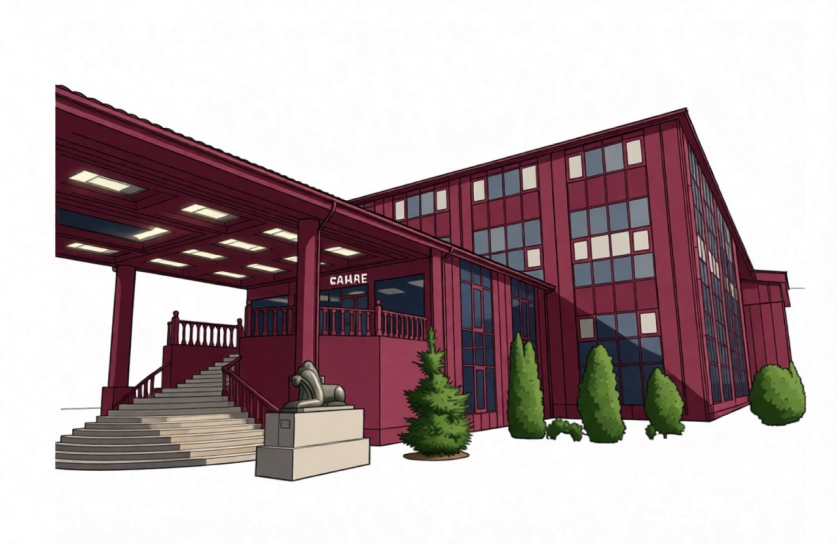
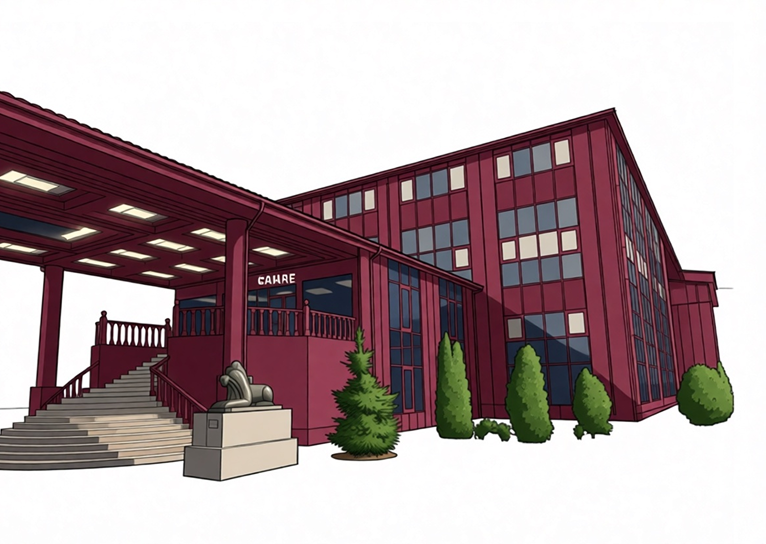
fix: 4 fixes — hide hero decor mobile, invitation decor left -10%, venue photo, timeline wave restored
- hero__decor--tl/tr hidden on mobile (<768px)
- invitation__decor left: -10% for mobile
- venue photo updated to image 46.png
- timeline cascade: restored inline SVG wave path (heart tracking works correctly)

diff --git a/styles.css b/styles.css
@@ -102,6 +102,7 @@ a {
   position: absolute;
   width: 90px;
   pointer-events: none;
+  display: none;
 }
 .hero__decor--tl {
   top: 0;
@@ -308,7 +309,7 @@ a {
 .invitation__decor {
   position: absolute;
   top: 55%;
-  left: -6%;
+  left: -10%;
   width: 62px;
   transform: translateY(-50%);
   opacity: 0.88;
@@ -453,23 +454,11 @@ a {
   position: relative;
   z-index: 1;
 }
-.timeline__cascade-img {
-  width: 72px;
-  min-height: 560px;
-  height: 100%;
-  object-fit: fill;
-  display: block;
-}
 .timeline__wave-svg {
   width: 72px;
   min-height: 560px;
   height: 100%;
   display: block;
-}
-.timeline__wave-hidden {
-  position: absolute;
-  opacity: 0;
-  pointer-events: none;
 }
 
 /* ── Путешествующее сердечко по центральной линии ── */
@@ -1012,6 +1001,8 @@ button, .btn-map, .btn-submit {
   }
   .hero__name { font-size: 180px; margin-bottom: 40px; }
   .hero__amp  { font-size: 180px; top: 55%; left: 35%; }
+
+  .hero__decor { display: block; }
 
   .hero__flower--tl  { left: 60px; }
   .hero__flower--lm  { left: -52px; }

diff --git a/index.html b/index.html
@@ -160,10 +160,8 @@
 
         <!-- ── ЦЕНТРАЛЬНЫЙ КАСКАД ── -->
         <div class="timeline__zigzag">
-          <!-- Визуальный каскад -->
-          <img src="assets/timeline_wave.svg" class="timeline__cascade-img" alt="" aria-hidden="true" />
-          <!-- Невидимый путь для движения сердечка -->
-          <svg id="timelineWave" class="timeline__wave-svg timeline__wave-hidden" viewBox="0 0 72 560" fill="none" aria-hidden="true">
+          <!-- Видимая волна + путь для сердечка — один SVG -->
+          <svg id="timelineWave" class="timeline__wave-svg" viewBox="0 0 72 560" fill="none" aria-hidden="true">
             <path id="wavePath"
               d="M 36 18
                  C 68 44 70 92 54 124
@@ -171,7 +169,9 @@
                  C 6 256 66 268 66 310
                  C 66 352 12 370 12 412
                  C 12 448 36 472 36 532"
-              stroke="none" fill="none"/>
+              stroke="#430607" stroke-width="1.6" stroke-linecap="round" fill="none"/>
+            <path d="M 36 528 C 30 522 20 524 20 531 C 20 540 36 548 36 548 C 36 548 52 540 52 531 C 52 524 42 522 36 528 Z"
+              fill="#430607"/>
           </svg>
         </div>
 